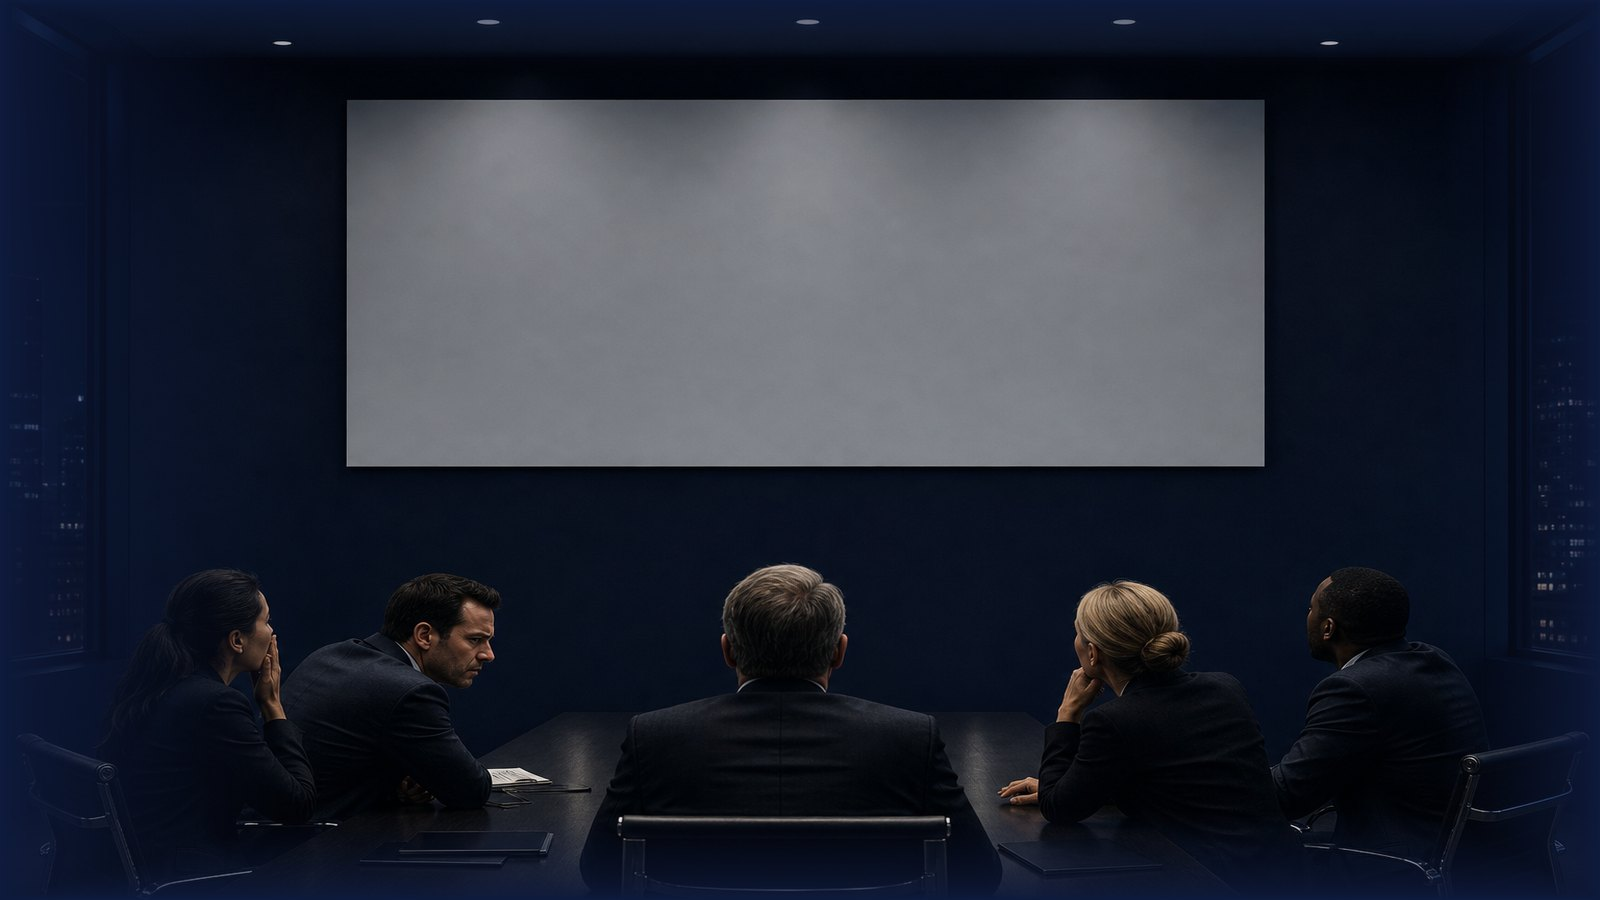
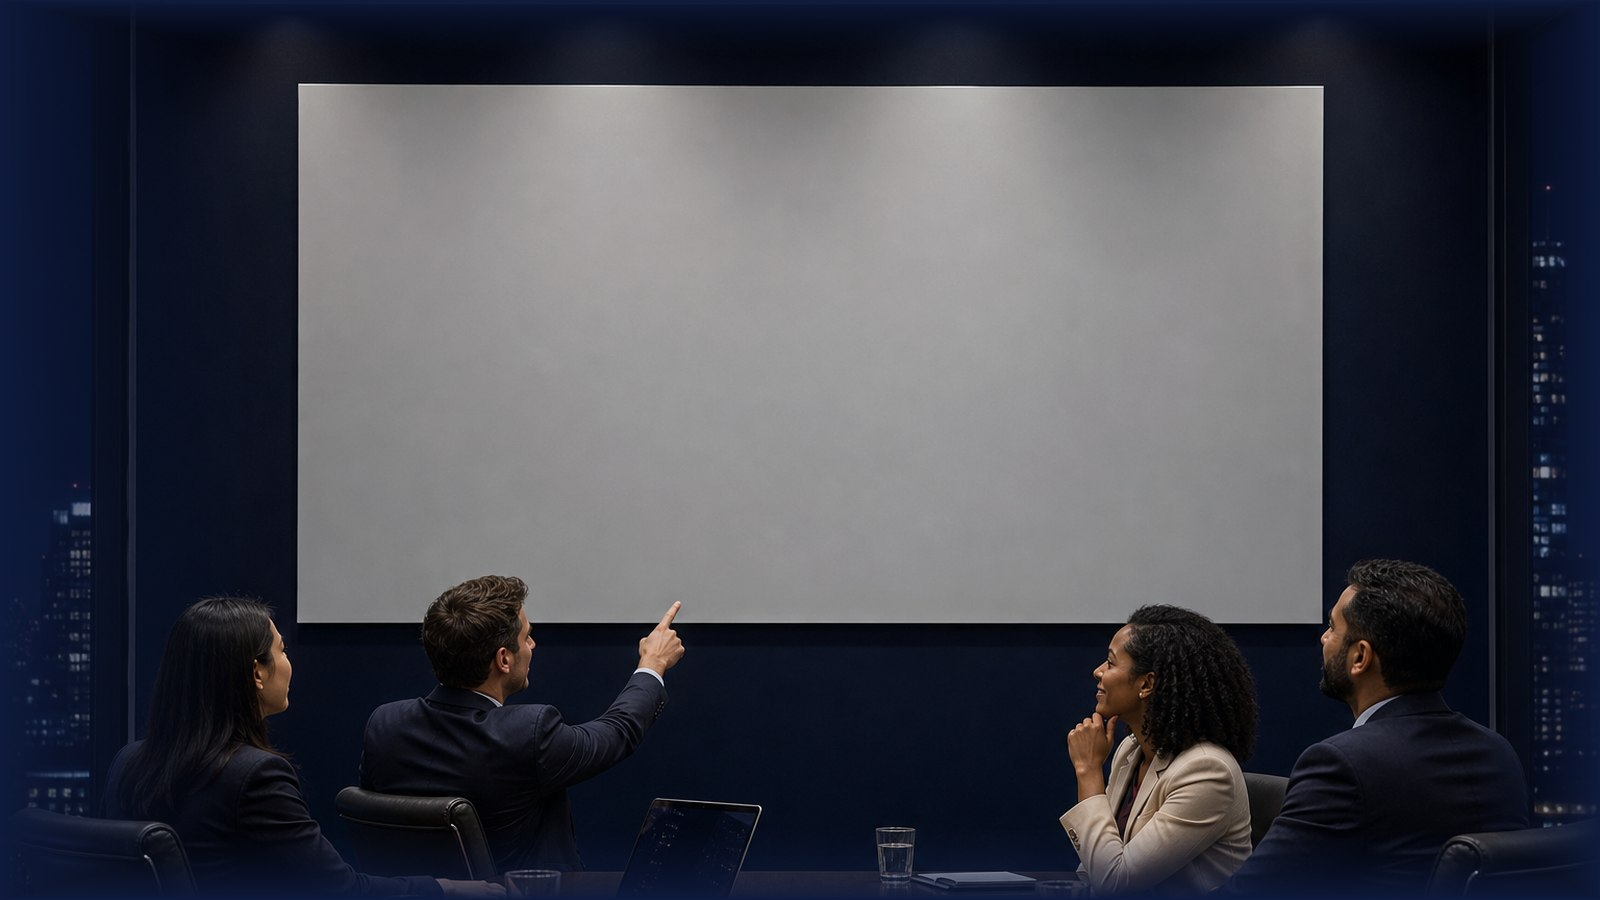
Enlarge the hero whiteboard and show a team interested in iProjectX
New room still: engaged people pointing at the board. The video panel
fills the larger whiteboard window without cropping their heads.

diff --git a/src/components/landing-story-window.tsx b/src/components/landing-story-window.tsx
@@ -11,13 +11,13 @@ const DEFAULT_VOLUME = 0.52;
 
 /**
  * Whiteboard slot fitted to public/landing/hero-room.jpg.
- * Kept 16:9 and above head-height so the panel never crops the team.
+ * Sized to the physical board so the 16:9 film covers the grey, above head-height.
  */
 const BOARD = {
-  left: "24%",
-  top: "13.2%",
-  width: "52.7%",
-  height: "29.7%",
+  left: "18.8%",
+  top: "12.4%",
+  width: "63.6%",
+  height: "46.2%",
 };
 
 export function LandingStoryWindow({ cfg }: { cfg: LandingConfig }) {
@@ -136,7 +136,7 @@ export function LandingStoryWindow({ cfg }: { cfg: LandingConfig }) {
           height: BOARD.height,
           background: "#0b1224",
           boxShadow:
-            "0 0 0 5px #d8dbe3, 0 0 0 6px #6b7280, inset 0 0 14px rgba(0,0,0,0.28)",
+            "0 0 0 3px #cfd3dc, 0 0 0 4px #4b5563, inset 0 0 10px rgba(0,0,0,0.22)",
         }}
       >
         <video
